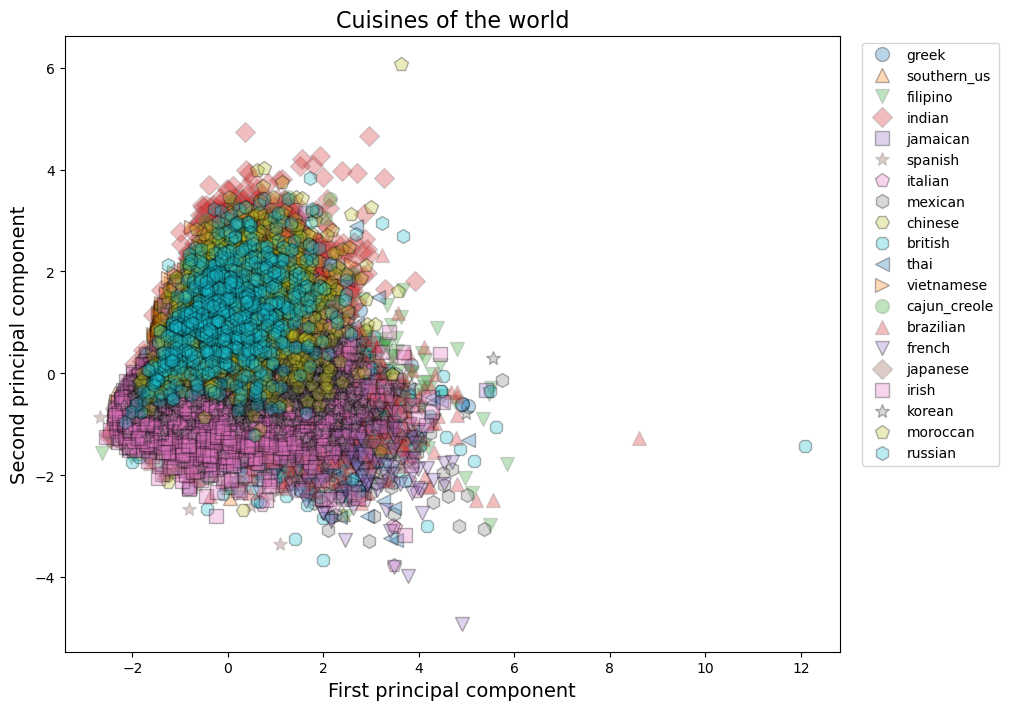
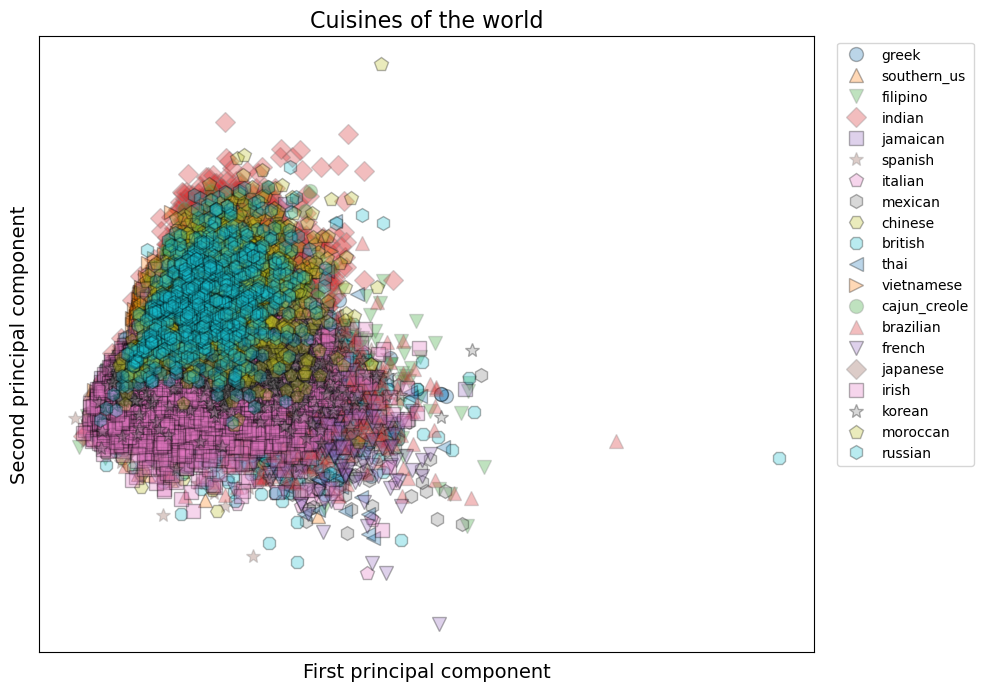
updated images cuisine, and page name

diff --git a/_posts/Ingredients and cuisine clustering.md b/_posts/Ingredients and cuisine clustering.md
@@ -1,4 +1,4 @@
-# Cuisine and Ingredients clustering
+# Cuisine Cultural Diffusion Analysis
 
 I have always been passionated about food and its polarity. It can make you strong and healthy or weak and sick. It can represent pure fuel for some people, or a form of artistic expression for others. It can be as simple as inserting a slice of cheese between 2 pieces of bread and as complicated as making a Michelin-star plate involving dozens of ingredients into very long and intricate processes. 
 Having a meal is a whole experience we get so often yet can be so diverse. From getting a quick but heartwarming panini  sandwich for lunch in a busy work day, to sharing a relaxed Sunday roast with one's family.
